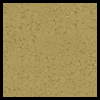
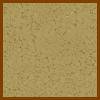
gun tower view updated

Changed region(s): [[0.0, 0.0, 1.0, 1.0]]

diff --git a/src/main/java/view/GunTowerView.java b/src/main/java/view/GunTowerView.java
@@ -15,8 +15,15 @@ public class GunTowerView extends TowerView {
 
 	private SpriteAnimation shootSpriteAnimation;
 	public GunTowerView(Tower tower, Group boardGroup, GraphicEntityModule graphics, TooltipModule tooltips) {
-		super(tower, boardGroup, graphics, tooltips, "guntower_spritesheet",64, 64, 8, 8);
-		towerSpriteAnimation.setScale(1.8).setAnchorY(.2).setAnchorX(.1).setDuration(1500);
+//		super(tower, boardGroup, graphics, tooltips, "gun",96, 96, 29, 29);
+//		towerSpriteAnimation.setScale(2.5).setAnchor(.3).setDuration(2500);
+
+
+		super(tower, boardGroup, graphics, tooltips, "canon",48, 48, 30, 30);
+		towerSpriteAnimation.setScale(2).setDuration(4000);
+
+//		super(tower, boardGroup, graphics, tooltips, "guntower_spritesheet",64, 64, 8, 8);
+//		towerSpriteAnimation.setScale(1.8).setAnchorY(.2).setAnchorX(.1).setDuration(1500);
 
 
 		double gg = (double) graphics.getWorld().getHeight() / (Constants.MAP_HEIGHT * 100);

diff --git a/src/main/java/view/AttackerView.java b/src/main/java/view/AttackerView.java
@@ -274,8 +274,8 @@ public class AttackerView {
     private void changeAnimation(String[] newImages, int duration) {
         attackerBody.setImages(newImages);
         attackerBody.setDuration(duration);
-//        attackerBody.reset(); 
-        graphics.commitEntityState(1, attackerBody);
+        attackerBody.reset();
+        graphics.commitEntityState(0, attackerBody);
     }
 
 
